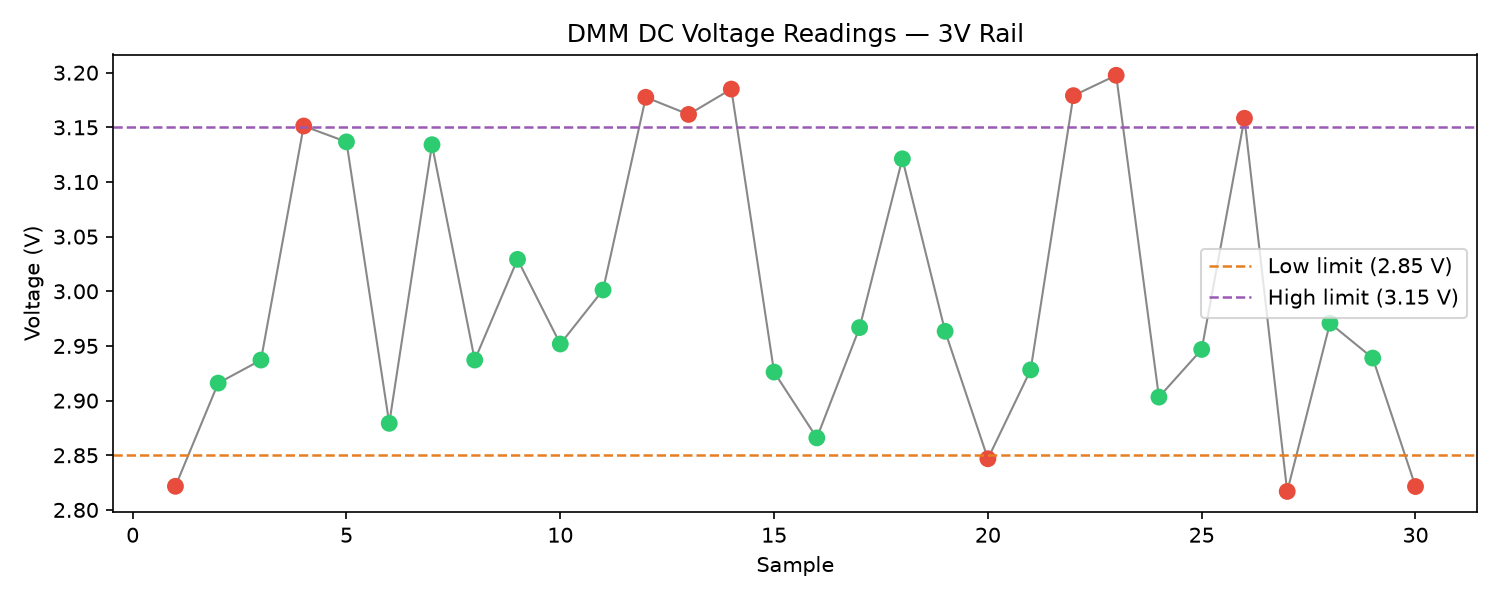
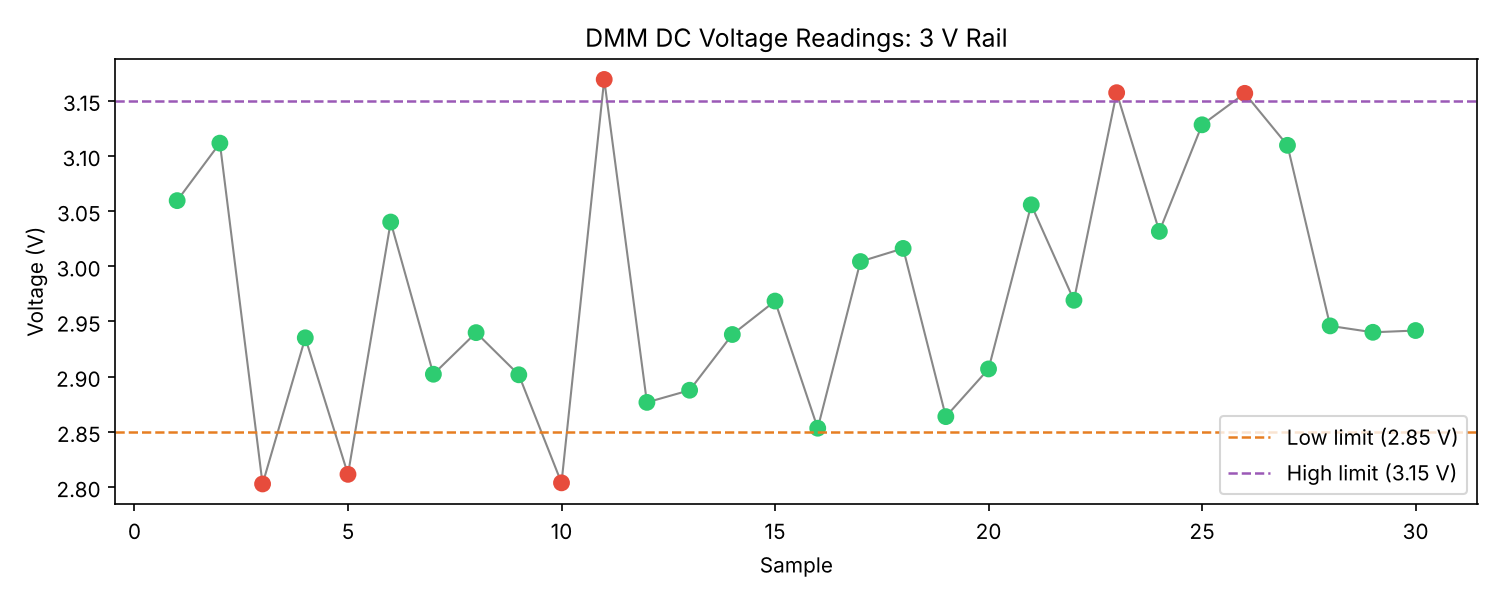
Pull test settings into constants, add requirements and README output
- NOMINAL_V, TOLERANCE, NUM_SAMPLES, SAMPLE_INTERVAL_S at the top of the
  script instead of repeating 2.85/3.15 and 30 in several places
- Fix "one per second" comment (interval is 0.1 s) and "intstrument" typo
- Add requirements.txt and .gitignore
- README: plot image, simulated instrument table, example output

Claude-Session: https://claude.ai/code/session_01CxT4HXFqMADgGH9fB3zzfL

diff --git a/dmm_logger.py b/dmm_logger.py
@@ -1,16 +1,35 @@
-import pyvisa
-import time
 import csv
+import time
+
 import matplotlib
-matplotlib.use("Agg")
+matplotlib.use("Agg")  # save to file without needing a display
 import matplotlib.pyplot as plt
 import numpy as np
+import pyvisa
+
+# Test settings
+NOMINAL_V = 3.0
+TOLERANCE = 0.05                       # ±5%
+V_LOW = NOMINAL_V * (1 - TOLERANCE)    # 2.85 V
+V_HIGH = NOMINAL_V * (1 + TOLERANCE)   # 3.15 V
+NUM_SAMPLES = 30
+SAMPLE_INTERVAL_S = 0.1
+
+RESOURCE = "GPIB::1::INSTR"
+SIM_CONFIG = "dmm.yaml@sim"
+CSV_FILE = "readings.csv"
+PLOT_FILE = "voltage_plot.png"
+
+
+def in_range(v):
+    return V_LOW <= v <= V_HIGH
+
 
 # Point PyVISA at the simulation config
-rm = pyvisa.ResourceManager("dmm.yaml@sim")
+rm = pyvisa.ResourceManager(SIM_CONFIG)
 
-# Open the virtual intstrument
-dmm = rm.open_resource("GPIB::1::INSTR")
+# Open the virtual instrument
+dmm = rm.open_resource(RESOURCE)
 dmm.read_termination = "\n"
 dmm.write_termination = "\n"
 
@@ -18,53 +37,55 @@ dmm.write_termination = "\n"
 idn = dmm.query("*IDN?")
 print(f"Connected to: {idn.strip()}")
 
-# Take 30 readings, one per second
+# Take NUM_SAMPLES readings, SAMPLE_INTERVAL_S apart
 readings = []
-print("Taking 30 voltage readings...")
-for i in range(30):
+print(f"Taking {NUM_SAMPLES} voltage readings...")
+for i in range(NUM_SAMPLES):
     voltage = float(dmm.query("MEAS:VOLT:DC?"))
     readings.append(voltage)
-    status = "OK" if 2.85 <= voltage <= 3.15 else "OUT OF RANGE"
+    status = "OK" if in_range(voltage) else "OUT OF RANGE"
     print(f" [{i+1:02d}] {voltage:.4f} V {status}")
-    time.sleep(0.1)
+    time.sleep(SAMPLE_INTERVAL_S)
 
 dmm.close()
 rm.close()
 
 # Summary stats
 arr = np.array(readings)
-out_of_range = sum(1 for v in readings if not (2.85 <= v <= 3.15))
+results = ["OK" if in_range(v) else "OUT OF RANGE" for v in readings]
+out_of_range = results.count("OUT OF RANGE")
 print(f"\n--- Summary ---")
-print(f"  Samples:       30")
+print(f"  Limits:        {V_LOW:.2f} to {V_HIGH:.2f} V ({NOMINAL_V} V ±{TOLERANCE:.0%})")
+print(f"  Samples:       {NUM_SAMPLES}")
 print(f"  Min:           {arr.min():.4f} V")
 print(f"  Max:           {arr.max():.4f} V")
 print(f"  Mean:          {arr.mean():.4f} V")
 print(f"  Std dev:       {arr.std():.4f} V")
-print(f"  Out of range:  {out_of_range}/30")
+print(f"  Out of range:  {out_of_range}/{NUM_SAMPLES}")
 
 # Write CSV
-with open("readings.csv", "w", newline="") as f:
-    writer = csv.writer(f)
+with open(CSV_FILE, "w", newline="") as f:
+    writer = csv.writer(f, lineterminator="\n")
     writer.writerow(["sample", "voltage_V", "result"])
-    for i, v in enumerate(readings):
-        result = "OK" if 2.85 <= v <= 3.15 else "OUT OF RANGE"
-        writer.writerow([i+1, round(v, 4), result])
+    for i, (v, result) in enumerate(zip(readings, results)):
+        writer.writerow([i + 1, round(v, 4), result])
 
-print("Saved readings.csv")
+print(f"Saved {CSV_FILE}")
 
 # Plot
+samples = range(1, NUM_SAMPLES + 1)
 fig, ax = plt.subplots(figsize=(10, 4))
-ax.plot(range(1, 31), readings, color="#888888", linewidth=1, zorder=1)
-ax.scatter(range(1, 31), readings,
-           c=["#2ecc71" if 2.85 <= v <= 3.15 else "#e74c3c" for v in readings],
+ax.plot(samples, readings, color="#888888", linewidth=1, zorder=1)
+ax.scatter(samples, readings,
+           c=["#2ecc71" if r == "OK" else "#e74c3c" for r in results],
            s=50, zorder=2)
-ax.axhline(2.85, color="#e67e22", linewidth=1.2, linestyle="--", label="Low limit (2.85 V)")
-ax.axhline(3.15, color="#9b59b6", linewidth=1.2, linestyle="--", label="High limit (3.15 V)")
+ax.axhline(V_LOW, color="#e67e22", linewidth=1.2, linestyle="--", label=f"Low limit ({V_LOW:.2f} V)")
+ax.axhline(V_HIGH, color="#9b59b6", linewidth=1.2, linestyle="--", label=f"High limit ({V_HIGH:.2f} V)")
 ax.set_xlabel("Sample")
 ax.set_ylabel("Voltage (V)")
-ax.set_title("DMM DC Voltage Readings — 3V Rail")
+ax.set_title(f"DMM DC Voltage Readings: {NOMINAL_V:g} V Rail")
 ax.legend()
 plt.tight_layout()
-plt.savefig("voltage_plot.png", dpi=150)
+plt.savefig(PLOT_FILE, dpi=150)
 
-print("Saved voltage_plot.png")
+print(f"Saved {PLOT_FILE}")

diff --git a/README.md b/README.md
@@ -1,26 +1,71 @@
 # DMM Simulation & Automated Voltage Logger
 
-Simulates a GPIB digital multimeter (DMM) using PyVISA and pyvisa-sim, then logs and plots DC voltage readings from a virtual 3V rail.
+Simulates a GPIB digital multimeter (DMM) using PyVISA and pyvisa-sim, then logs and plots DC voltage readings from a virtual 3 V rail.
+
+![Voltage plot](voltage_plot.png)
 
 ## What it does
 
-- Loads a YAML instrument definition that responds to standard SCPI commands
-- Queries `MEAS:VOLT:DC?` 30 times over a simulated GPIB connection
-- Flags readings outside ±5% of 3V (2.85–3.15 V) as OUT OF RANGE
+- Loads a YAML instrument definition (`dmm.yaml`) that responds to standard SCPI commands
+- Sends `*IDN?` to identify the instrument
+- Queries `MEAS:VOLT:DC?` 30 times, 0.1 s apart, over a simulated GPIB connection
+- Flags readings outside ±5% of 3 V (2.85 to 3.15 V) as OUT OF RANGE
 - Computes summary statistics (min, max, mean, std dev)
 - Writes results to `readings.csv`
 - Plots pass/fail readings to `voltage_plot.png`
 
-## Why it matters
+## Why PyVISA
 
-PyVISA is the standard Python library for controlling bench instruments (oscilloscopes, DMMs, power supplies) over GPIB, USB, and Ethernet. This project demonstrates automated test sequencing and data acquisition — the same workflow used in hardware validation and production test environments.
+PyVISA is the standard Python library for controlling bench instruments (oscilloscopes, DMMs, power supplies) over GPIB, USB, and Ethernet. The same script would run against a real meter by changing `RESOURCE` to its address and removing `@sim` from the resource manager.
 
-## Stack
+## The simulated instrument
 
-- Python, PyVISA, pyvisa-sim, NumPy, Matplotlib
+`dmm.yaml` defines one device at `GPIB::1::INSTR`:
+
+| Command         | Response                                  |
+| --------------- | ----------------------------------------- |
+| `*IDN?`         | `SIM,DMM-3000,SN001,FW1.0`                |
+| `MEAS:VOLT:DC?` | random value from 2.80 to 3.20 V          |
+
+The random range is wider than the limits on purpose, so a typical run has a few out-of-range readings to flag.
+
+## Setup
+
+```
+pip install -r requirements.txt
+```
 
 ## Usage
 
-```bash
+```
 python3 dmm_logger.py
 ```
+
+Test settings are constants at the top of `dmm_logger.py`: `NOMINAL_V`, `TOLERANCE`, `NUM_SAMPLES`, and `SAMPLE_INTERVAL_S`.
+
+## Example output
+
+```
+Connected to: SIM,DMM-3000,SN001,FW1.0
+Taking 30 voltage readings...
+ [01] 3.0595 V OK
+ [02] 3.1116 V OK
+ [03] 2.8028 V OUT OF RANGE
+ ...
+ [30] 2.9418 V OK
+
+--- Summary ---
+  Limits:        2.85 to 3.15 V (3.0 V ±5%)
+  Samples:       30
+  Min:           2.8028 V
+  Max:           3.1693 V
+  Mean:          2.9743 V
+  Std dev:       0.1066 V
+  Out of range:  6/30
+Saved readings.csv
+Saved voltage_plot.png
+```
+
+## Stack
+
+Python, PyVISA, pyvisa-sim, NumPy, Matplotlib
